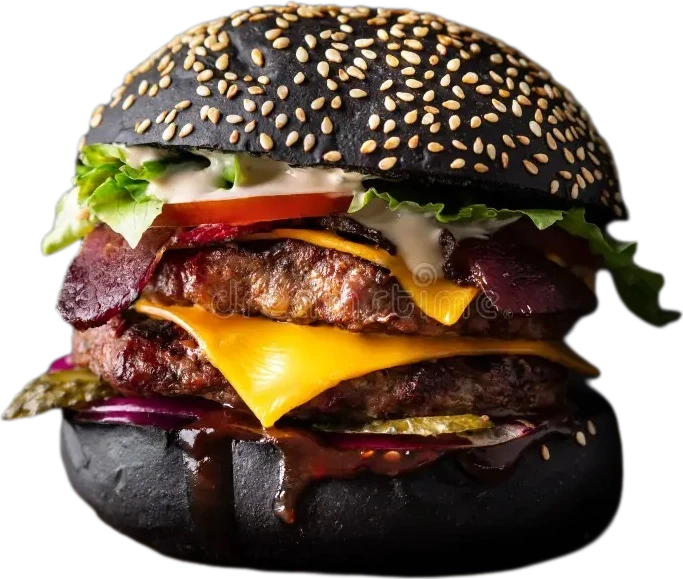
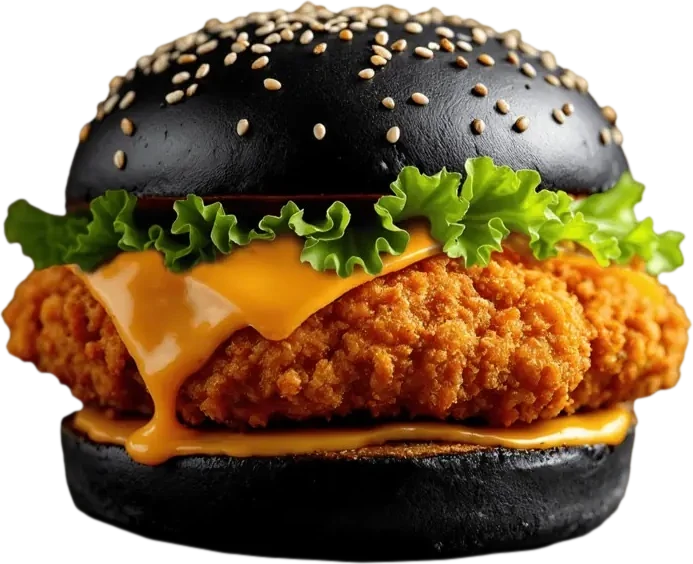
Hero: replace burger photo (no watermark)
Claude-Session: https://claude.ai/code/session_01RCPbgfBx9YUptBFrbT7XVj

diff --git a/ru/index.html b/ru/index.html
@@ -50,7 +50,7 @@
     <div class="badges"><div data-i="b1">🛵 Бесплатная доставка от 400 лей</div><div data-i="b2">🏃 Самовывоз</div><div data-i="b3">🕗 Ежедневно 08:00–21:00</div></div>
     <button class="cta" onclick="go(CATS[0].id)" data-i="see">Смотреть меню</button><a class="cta ghost" href="#contacte" data-i="contacts">Контакты</a>
   </div>
-  <div class="collage" id="collage"><img src="../img/hero-burger.webp" alt="Double cheeseburger L'Gusto" fetchpriority="high" width="683" height="579"><div class="sticker" aria-label="Double cheeseburger L'Gusto: 115 лей"><b>115</b><span>лей</span></div></div>
+  <div class="collage" id="collage"><img src="../img/hero-burger.webp" alt="Double cheeseburger L'Gusto" fetchpriority="high" width="693" height="564"><div class="sticker" aria-label="Double cheeseburger L'Gusto: 115 лей"><b>115</b><span>лей</span></div></div>
 </section>
 <div class="tickwrap" aria-hidden="true"><div class="ticker"><div class="tk" id="ticker"><span class="ti"><img src="../img/double-cheeseburger-lgusto.webp" alt="" width="46" height="34">Double cheeseburger L'Gusto<b>115 лей</b></span><span class="ti"><img src="../img/sushi-philadelphia.webp" alt="" width="46" height="34">Philadelphia<b>160 лей</b></span><span class="ti"><img src="../img/kebab-lgusto.webp" alt="" width="46" height="34">Kebab „L'Gusto”<b>85 лей</b></span><span class="ti"><img src="../img/aripi-crispy.webp" alt="" width="46" height="34">Aripi de pui crispy 🌶<b>79 лей</b></span><span class="ti"><img src="../img/sushi-golden-dragon.webp" alt="" width="46" height="34">Golden Dragon<b>210 лей</b></span><span class="ti"><img src="../img/crispy-burger.webp" alt="" width="46" height="34">Crispy burger<b>75 лей</b></span><span class="ti"><img src="../img/fries.webp" alt="" width="46" height="34">Fries<b>40 лей</b></span><span class="ti"><img src="../img/sushi-set-lgusto.webp" alt="" width="46" height="34">Set Sushi L'Gusto (40 buc.)<b>585 лей</b></span><span class="ti"><img src="../img/chicken-nuggets.webp" alt="" width="46" height="34">Chicken nuggets<b>60 лей</b></span><span class="ti"><img src="../img/big-double-cheeseburger.webp" alt="" width="46" height="34">Big double cheeseburger<b>100 лей</b></span><span class="ti"><img src="../img/double-cheeseburger-lgusto.webp" alt="" width="46" height="34">Double cheeseburger L'Gusto<b>115 лей</b></span><span class="ti"><img src="../img/sushi-philadelphia.webp" alt="" width="46" height="34">Philadelphia<b>160 лей</b></span><span class="ti"><img src="../img/kebab-lgusto.webp" alt="" width="46" height="34">Kebab „L'Gusto”<b>85 лей</b></span><span class="ti"><img src="../img/aripi-crispy.webp" alt="" width="46" height="34">Aripi de pui crispy 🌶<b>79 лей</b></span><span class="ti"><img src="../img/sushi-golden-dragon.webp" alt="" width="46" height="34">Golden Dragon<b>210 лей</b></span><span class="ti"><img src="../img/crispy-burger.webp" alt="" width="46" height="34">Crispy burger<b>75 лей</b></span><span class="ti"><img src="../img/fries.webp" alt="" width="46" height="34">Fries<b>40 лей</b></span><span class="ti"><img src="../img/sushi-set-lgusto.webp" alt="" width="46" height="34">Set Sushi L'Gusto (40 buc.)<b>585 лей</b></span><span class="ti"><img src="../img/chicken-nuggets.webp" alt="" width="46" height="34">Chicken nuggets<b>60 лей</b></span><span class="ti"><img src="../img/big-double-cheeseburger.webp" alt="" width="46" height="34">Big double cheeseburger<b>100 лей</b></span></div></div></div>
 
@@ -456,7 +456,7 @@ function extras() {
   const withImg = MENU.filter((m) => m.img);
   const pick = ["double-cheeseburger-lgusto", "kebab-lgusto", "aripi-asiatic"].map((id) => BY[id]).filter(Boolean);
   const col = pick.length === 3 ? pick : withImg.slice(0, 3);
-  $("collage").innerHTML = `<img src="${BASE}img/hero-burger.webp" alt="${esc(col[0].name)}" fetchpriority="high" width="683" height="579"><div class="sticker" aria-label="${esc(col[0].name)}: ${col[0].price} ${t("cur")}"><b>${col[0].price}</b><span>${t("cur")}</span></div>`;
+  $("collage").innerHTML = `<img src="${BASE}img/hero-burger.webp" alt="${esc(col[0].name)}" fetchpriority="high" width="693" height="564"><div class="sticker" aria-label="${esc(col[0].name)}: ${col[0].price} ${t("cur")}"><b>${col[0].price}</b><span>${t("cur")}</span></div>`;
   // «Рекомендуем»: список задаёт оператор (settings.rec); null — список по умолчанию из config.js
   const recIds = (Array.isArray(settings.rec) ? settings.rec : (window.RECOMMENDED_DEFAULT || [])).filter((id) => BY[id] && avail(id));
   $("pop").innerHTML = recIds.map((id) => cardHtml(BY[id], 1)).join("");

diff --git a/index.html b/index.html
@@ -50,7 +50,7 @@
     <div class="badges"><div data-i="b1">🛵 Livrare gratuită de la 400 lei</div><div data-i="b2">🏃 Ridicare personală</div><div data-i="b3">🕗 Zilnic 08:00–21:00</div></div>
     <button class="cta" onclick="go(CATS[0].id)" data-i="see">Vezi meniul</button><a class="cta ghost" href="#contacte" data-i="contacts">Contacte</a>
   </div>
-  <div class="collage" id="collage"><img src="img/hero-burger.webp" alt="Double cheeseburger L'Gusto" fetchpriority="high" width="683" height="579"><div class="sticker" aria-label="Double cheeseburger L'Gusto: 115 lei"><b>115</b><span>lei</span></div></div>
+  <div class="collage" id="collage"><img src="img/hero-burger.webp" alt="Double cheeseburger L'Gusto" fetchpriority="high" width="693" height="564"><div class="sticker" aria-label="Double cheeseburger L'Gusto: 115 lei"><b>115</b><span>lei</span></div></div>
 </section>
 <div class="tickwrap" aria-hidden="true"><div class="ticker"><div class="tk" id="ticker"><span class="ti"><img src="img/double-cheeseburger-lgusto.webp" alt="" width="46" height="34">Double cheeseburger L'Gusto<b>115 lei</b></span><span class="ti"><img src="img/sushi-philadelphia.webp" alt="" width="46" height="34">Philadelphia<b>160 lei</b></span><span class="ti"><img src="img/kebab-lgusto.webp" alt="" width="46" height="34">Kebab „L'Gusto”<b>85 lei</b></span><span class="ti"><img src="img/aripi-crispy.webp" alt="" width="46" height="34">Aripi de pui crispy 🌶<b>79 lei</b></span><span class="ti"><img src="img/sushi-golden-dragon.webp" alt="" width="46" height="34">Golden Dragon<b>210 lei</b></span><span class="ti"><img src="img/crispy-burger.webp" alt="" width="46" height="34">Crispy burger<b>75 lei</b></span><span class="ti"><img src="img/fries.webp" alt="" width="46" height="34">Fries<b>40 lei</b></span><span class="ti"><img src="img/sushi-set-lgusto.webp" alt="" width="46" height="34">Set Sushi L'Gusto (40 buc.)<b>585 lei</b></span><span class="ti"><img src="img/chicken-nuggets.webp" alt="" width="46" height="34">Chicken nuggets<b>60 lei</b></span><span class="ti"><img src="img/big-double-cheeseburger.webp" alt="" width="46" height="34">Big double cheeseburger<b>100 lei</b></span><span class="ti"><img src="img/double-cheeseburger-lgusto.webp" alt="" width="46" height="34">Double cheeseburger L'Gusto<b>115 lei</b></span><span class="ti"><img src="img/sushi-philadelphia.webp" alt="" width="46" height="34">Philadelphia<b>160 lei</b></span><span class="ti"><img src="img/kebab-lgusto.webp" alt="" width="46" height="34">Kebab „L'Gusto”<b>85 lei</b></span><span class="ti"><img src="img/aripi-crispy.webp" alt="" width="46" height="34">Aripi de pui crispy 🌶<b>79 lei</b></span><span class="ti"><img src="img/sushi-golden-dragon.webp" alt="" width="46" height="34">Golden Dragon<b>210 lei</b></span><span class="ti"><img src="img/crispy-burger.webp" alt="" width="46" height="34">Crispy burger<b>75 lei</b></span><span class="ti"><img src="img/fries.webp" alt="" width="46" height="34">Fries<b>40 lei</b></span><span class="ti"><img src="img/sushi-set-lgusto.webp" alt="" width="46" height="34">Set Sushi L'Gusto (40 buc.)<b>585 lei</b></span><span class="ti"><img src="img/chicken-nuggets.webp" alt="" width="46" height="34">Chicken nuggets<b>60 lei</b></span><span class="ti"><img src="img/big-double-cheeseburger.webp" alt="" width="46" height="34">Big double cheeseburger<b>100 lei</b></span></div></div></div>
 
@@ -456,7 +456,7 @@ function extras() {
   const withImg = MENU.filter((m) => m.img);
   const pick = ["double-cheeseburger-lgusto", "kebab-lgusto", "aripi-asiatic"].map((id) => BY[id]).filter(Boolean);
   const col = pick.length === 3 ? pick : withImg.slice(0, 3);
-  $("collage").innerHTML = `<img src="${BASE}img/hero-burger.webp" alt="${esc(col[0].name)}" fetchpriority="high" width="683" height="579"><div class="sticker" aria-label="${esc(col[0].name)}: ${col[0].price} ${t("cur")}"><b>${col[0].price}</b><span>${t("cur")}</span></div>`;
+  $("collage").innerHTML = `<img src="${BASE}img/hero-burger.webp" alt="${esc(col[0].name)}" fetchpriority="high" width="693" height="564"><div class="sticker" aria-label="${esc(col[0].name)}: ${col[0].price} ${t("cur")}"><b>${col[0].price}</b><span>${t("cur")}</span></div>`;
   // «Рекомендуем»: список задаёт оператор (settings.rec); null — список по умолчанию из config.js
   const recIds = (Array.isArray(settings.rec) ? settings.rec : (window.RECOMMENDED_DEFAULT || [])).filter((id) => BY[id] && avail(id));
   $("pop").innerHTML = recIds.map((id) => cardHtml(BY[id], 1)).join("");

diff --git a/_build/template.html b/_build/template.html
@@ -178,7 +178,7 @@ function extras() {
   const withImg = MENU.filter((m) => m.img);
   const pick = ["double-cheeseburger-lgusto", "kebab-lgusto", "aripi-asiatic"].map((id) => BY[id]).filter(Boolean);
   const col = pick.length === 3 ? pick : withImg.slice(0, 3);
-  $("collage").innerHTML = `<img src="${BASE}img/hero-burger.webp" alt="${esc(col[0].name)}" fetchpriority="high" width="683" height="579"><div class="sticker" aria-label="${esc(col[0].name)}: ${col[0].price} ${t("cur")}"><b>${col[0].price}</b><span>${t("cur")}</span></div>`;
+  $("collage").innerHTML = `<img src="${BASE}img/hero-burger.webp" alt="${esc(col[0].name)}" fetchpriority="high" width="693" height="564"><div class="sticker" aria-label="${esc(col[0].name)}: ${col[0].price} ${t("cur")}"><b>${col[0].price}</b><span>${t("cur")}</span></div>`;
   // «Рекомендуем»: список задаёт оператор (settings.rec); null — список по умолчанию из config.js
   const recIds = (Array.isArray(settings.rec) ? settings.rec : (window.RECOMMENDED_DEFAULT || [])).filter((id) => BY[id] && avail(id));
   $("pop").innerHTML = recIds.map((id) => cardHtml(BY[id], 1)).join("");

diff --git a/sw.js b/sw.js
@@ -1,5 +1,5 @@
 // Service worker: сеть в приоритете, кэш — на случай плохого интернета.
-const C = "lgusto-v14";
+const C = "lgusto-v15";
 self.addEventListener("install", (e) => self.skipWaiting());
 self.addEventListener("activate", (e) => e.waitUntil(caches.keys().then((ks) => Promise.all(ks.filter((k) => k !== C).map((k) => caches.delete(k)))).then(() => self.clients.claim())));
 self.addEventListener("fetch", (e) => {
